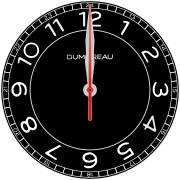
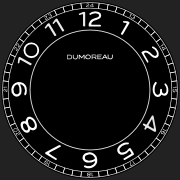
web app changes

Changed region(s): [[0.0, 0.0, 1.0, 1.0]]

diff --git a/dumoreau/style.css b/dumoreau/style.css
@@ -2,6 +2,25 @@
   --clock_size: 100vmin;
 }
 
+html, body {
+    position: fixed;
+    overflow: hidden;
+    width: 100%;
+    height: 100%;
+}
+
+body, svg {
+    /* Prevents the user from selecting text or UI elements */
+    -webkit-user-select: none; 
+    user-select: none;
+    
+    /* Prevents default iOS tap highlight flash */
+    -webkit-tap-highlight-color: transparent; 
+    
+    /* Disables pinch-to-zoom over the clock */
+    touch-action: none; 
+}
+
 body {
 	margin:0px;
 	padding:0px;

diff --git a/dumoreau/index.html b/dumoreau/index.html
@@ -4,9 +4,10 @@
 <meta name="author" content="Christopher Kent">
 <meta name="description" content="An SVG and Javascript analogue clock inspired by a Dumoreau watch design.">
 <meta http-equiv="Content-Type" content="text/html; charset=UTF-8">
-<meta name="viewport" content="width=device-width, initial-scale=1.0, viewport-fit=cover">
+<meta name="viewport" content="width=device-width, initial-scale=1.0, maximum-scale=1.0, user-scalable=no, viewport-fit=cover">
+<meta name="apple-mobile-web-app-status-bar-style" content="black-translucent">
 <title>SVG Dumoreau</title>
-<link rel="icon" type="image/png" href="favicon.png">
+<link rel="icon" type="image/png" href="apple-touch-icon.png">
 <link rel="apple-touch-icon" href="apple-touch-icon.png">
 <style media="screen">
 @import "style.css";